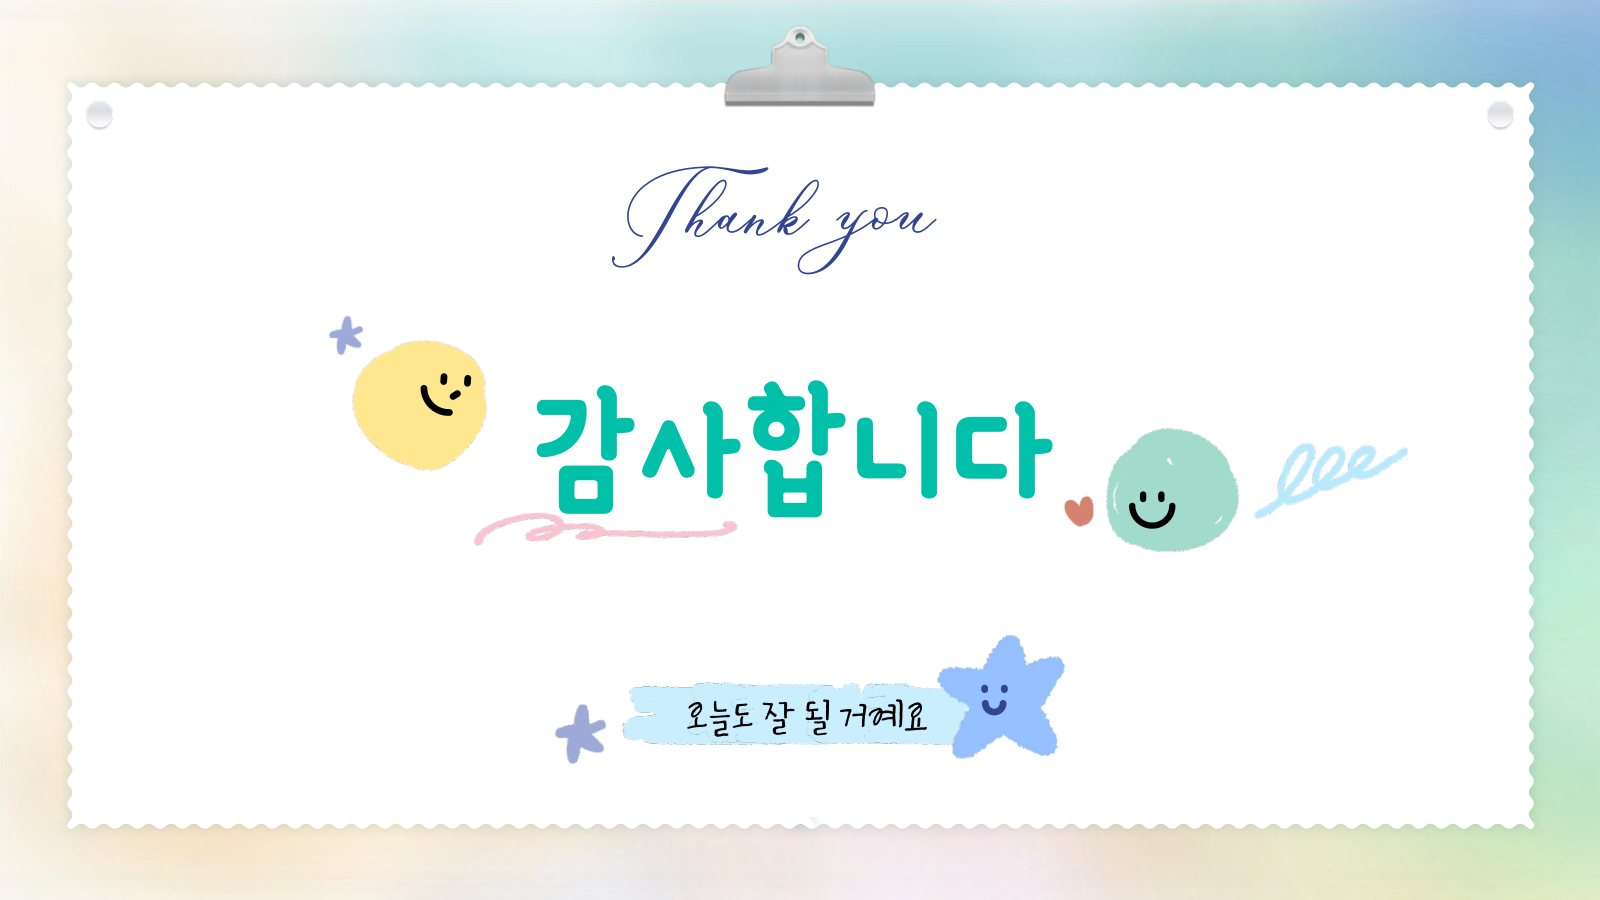
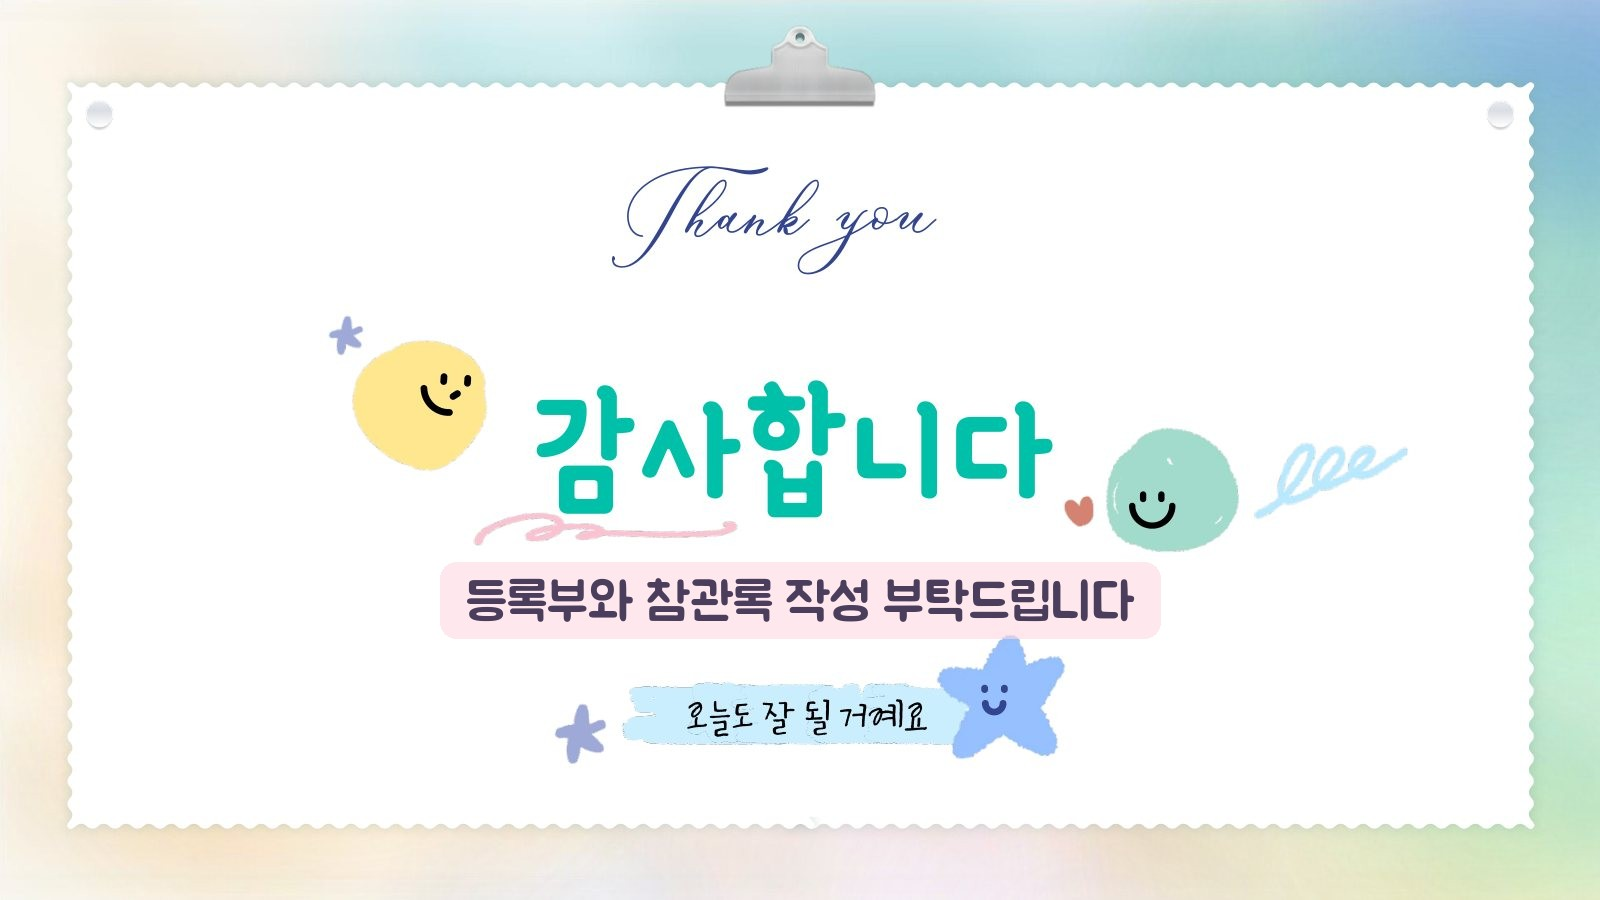
첫 장은 촬영 불가 안내만 크게 · 마지막 장에 등록부·참관록 안내 추가
- 첫 화면: 안내문 전체 → 「사진 및 동영상 촬영은 불가합니다」 카드만 잘라
  화면 높이의 95%로 키우고 원본 분홍 체크 배경으로 채움
- 마지막 「감사합니다」 화면에 「등록부와 참관록 작성 부탁드립니다」를
  연분홍 형광펜 띠와 함께 추가(주아체, 기존 문구들과 같은 결)

Claude-Session: https://claude.ai/code/session_01HwcFfa8KNXHyJGf1Wknv3A

Changed region(s): [[0.2812, 0.6222, 0.7188, 0.7156]]

diff --git a/index.html b/index.html
@@ -10,7 +10,7 @@
 <link rel="preconnect" href="https://fonts.googleapis.com">
 <link rel="preconnect" href="https://fonts.gstatic.com" crossorigin>
 <link href="https://fonts.googleapis.com/css2?family=Jua&family=Gaegu:wght@400;700&display=swap" rel="stylesheet">
-<script>window.APP_VER="20260910-1642";</script>
+<script>window.APP_VER="20260910-1706";</script>
 <style>
   :root{
     --bg:#FFF7ED; --card:#FFFFFF; --ink:#1F2937; --sub:#6B7280;
